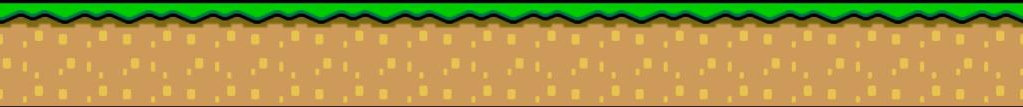
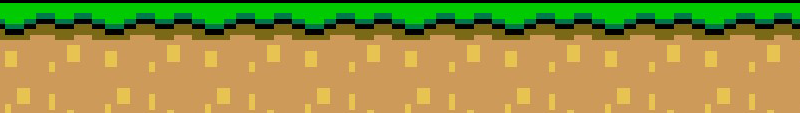
fixed bugs
and add more improvements

diff --git a/js/game.js b/js/game.js
@@ -3,9 +3,11 @@ const pipe = document.querySelector(".pipe");
 const ground1 = document.querySelector(".ground-1");
 const ground2 = document.querySelector(".ground-2");
 const clouds = document.querySelector(".clouds");
-const menu = document.querySelector(".hidden");
+const menu = document.querySelector("#menu");
 const btnJump = document.querySelector(".button-jump");
 const marioGameOver = document.querySelector(".mario-game-over");
+const bgGameBlack = document.querySelector(".bg-game-black");
+const gameOverMsg = document.querySelector("#game-over-msg");
 
 const jumpSound = document.querySelector("#jumpSound");
 const stageSound = document.querySelector("#stageSound");
@@ -38,7 +40,7 @@ const loop = setInterval(() => {
     .bottom.replace("px", "");
 
   const gameOver =
-    pipePosition <= 120 && pipePosition > 0 && marioPosition < 130;
+    pipePosition <= 120 && pipePosition > 0 && marioPosition < 210;
 
   if (gameOver) {
     btnJump.style.display = "none";
@@ -49,9 +51,9 @@ const loop = setInterval(() => {
     mario.style.animation = "none";
     mario.style.bottom = `${marioPosition}px`;
 
-    ground1.style.animation = "none";
-    ground2.style.animation = "none";
-
+    ground1.style.animation = "paused";
+    ground2.style.animation = "paused";
+    
     clouds.style.animation = "none";
     clouds.style.left = `${cloudsPosition}px`;
 
@@ -59,15 +61,20 @@ const loop = setInterval(() => {
     marioGameOver.style.bottom = `${marioPosition}px`;
     marioGameOver.style.display = "block";
 
+    gameOverMsg.classList.remove("hidden")
+
     setTimeout(() => {
       jumpSound.pause();
       jumpSound.src = "";
     }, 300);
 
     setTimeout(() => {
-      menu.style.display = "block";
-      marioGameOver.style.display = "none";
+      gameOverMsg.classList.add("hidden");
+      menu.classList.remove("hidden")
+      // marioGameOver.style.display = "none";
     }, 3000);
+
+    bgGameBlack.classList.remove("hidden");
 
     stageSound.pause();
     gameOverSound.play();

diff --git a/css/game-screen.css b/css/game-screen.css
@@ -6,7 +6,6 @@
   margin: 0px auto;
   position: relative;
   overflow: hidden;
-  background: linear-gradient(#54bde7, #e0f6ff);
 }
 
 .hidden {
@@ -15,15 +14,35 @@
 
 .button-jump {
   font-family: 'Press Start 2P', cursive;
-  border: 2px solid #000;
-  border-radius: 100%;
+  background-color: #6b4b8b;
+  border-radius: 48%;
   position: absolute;
   cursor: pointer;
-  width: 100px;
+  width: 105px;
   height: 100px;
   margin: 16px;
   text-align: center;
   z-index: 1;
+  box-shadow: 0px 8px 2px 1px #44334f;
+}
+
+.game-over {
+  font-family: 'Press Start 2P', cursive;
+  font-size: 48px;
+  width: 150px;
+  height: 50px;
+  margin: 0 auto;
+  position: absolute;
+  bottom: 360px;
+  right: 44%;
+  z-index: 1;
+  text-align: center;
+}
+
+.game-over-msg{
+  margin: 12px;
+  color: #dedede;
+  filter: drop-shadow(0px 3px 10px rgba(80, 80, 80, 0.9));
 }
 
 .menu {
@@ -31,27 +50,39 @@
   height: 50px;
   margin: 0 auto;
   position: absolute;
-  text-align: center;
   display: flex;
   flex-direction: column;
+  align-items: center;
   gap: 24px;
   bottom: 340px;
   right: 40%;
+  z-index: 1;
 }
 
 .button-game {
-  border: 2px solid #000;
-  border-radius: 16px;
   padding: 5px;
   cursor: pointer;
-  background-color: #a0a0a0;
   font-size: 22px;
-  font-family: mario;
+  font-family: 'Press Start 2P', cursive;
   text-decoration: none;
-  color: #090a0a;
-  box-shadow: 0px 15px 16px -4px #333;
+  color: #dedede;
+  filter: drop-shadow(0px 3px 10px rgba(80, 80, 192, 0.9));
 }
 
 .button-game:hover {
   font-size: 22.5px;
+}
+
+.mountains-bg {
+  z-index: -1;
+  width: 800px;
+  height: 610px;
+  position: absolute;
+}
+
+.bg-game-black {
+  opacity: 85%;
+  width: 800px;
+  height: 610px;
+  position: absolute;
 }

diff --git a/game.html b/game.html
@@ -22,14 +22,20 @@
 
   <body>
     <div class="game-screen">
-      <span class="hidden">
+
+      <span class="game-over hidden" id="game-over-msg">
+        <p class="game-over-msg">GAME</p>
+        <p class="game-over-msg">OVER</p>
+      </span>
+
+      <span class="hidden" id="menu">
         <div class="menu">
-          <a href="./index.html" class="button-game">home</a>
+          <a href="./index.html" class="button-game"> home</a>
           <a href="./game.html" class="button-game">restart</a>
         </div>
       </span>
 
-      <div class="button-jump">teste</div>
+      <div class="button-jump"></div>
 
       <img src="./images/pipe-game.png" alt="Pipe" class="pipe" />
 
@@ -45,7 +51,11 @@
 
       <img src="./images/ground.png" alt="Ground 2" class="ground-2" />
 
+      <img src="./images/mountains-bg.png" alt="Mountais" class="mountains-bg" />
+
       <img src="./images/clouds-game.png" alt="Clouds" class="clouds" />
+
+      <img src="./images/bg-black.png" alt="Background" class="bg-game-black hidden" />
     </div>
   </body>
 </html>

diff --git a/css/home.css b/css/home.css
@@ -13,16 +13,14 @@
 
 .logo {
   width: 500px;
-  -webkit-filter: drop-shadow(0px 15px 16px rgba(0, 0, 0, 0.9)); 
-  filter: drop-shadow(0px 15px 16px rgba(0, 0, 0, 0.9));
+  filter: drop-shadow(0px 5px 10px rgba(150, 150, 150, 0.9));
 }
 
 h2 {
   color:#dedede;
   font-family: 'Press Start 2P', cursive;
   margin-bottom: 22px;
-  -webkit-filter: drop-shadow(0px 15px 16px rgba(0, 0, 0, 0.9)); 
-  filter: drop-shadow(0px 15px 16px rgba(0, 0, 0, 0.9));
+  filter: drop-shadow(0px 3px 10px rgba(150, 150, 150, 0.9));
 }
 
 
@@ -34,8 +32,7 @@ h2 {
   font-family: 'Press Start 2P', cursive;
   color:#dedede;
   cursor: default;
-  -webkit-filter: drop-shadow(0px 15px 16px rgba(0, 0, 0, 0.9)); 
-  filter: drop-shadow(0px 15px 16px rgba(0, 0, 0, 0.9));
+  filter: drop-shadow(0px 3px 10px rgba(150, 150, 150, 0.9));
 }
 
 .main-menu span a {
@@ -65,7 +62,7 @@ h2 {
 
 .coin1, .coin2 {
   width: 12px;
-  cursor: pointer;
+  cursor: default;
 }
 
 .bg-image {

diff --git a/css/animation.css b/css/animation.css
@@ -3,20 +3,20 @@
 
 .mario {
   position: absolute;
-  bottom: 50px;
+  bottom: 130px;
   width: 150px;
 }
 
 .mario-game-over {
   position: absolute;
-  bottom: 50px;
+  bottom: 130px;
   width: 150px;
   display: none
 }
 
 .mario-game-over-2 {
   position: absolute;
-  bottom: 50px;
+  bottom: 130px;
   width: 150px;
 }
 
@@ -26,7 +26,7 @@
 
 .pipe {
   position: absolute;
-  bottom: 50px;
+  bottom: 130px;
   height: 80px;
   width: 80px;
   animation: pipe-animation 1.5s infinite linear;
@@ -34,8 +34,8 @@
 
 .ground-1 {
   position: absolute;
-  bottom: 0;
-  height: 50px;
+  bottom: 0px;
+  height: 130px;
   width: 800px;
   animation: ground-animation-1 1.3s infinite linear;
 }
@@ -43,7 +43,7 @@
 .ground-2 {
   position: absolute;
   bottom: 0px;  
-  height: 50px;
+  height: 130px;
   width: 800px;
   animation: ground-animation-2  1.3s infinite linear;
 }

diff --git a/css/keyframes.css b/css/keyframes.css
@@ -1,22 +1,22 @@
 @keyframes jump {
   0% {
-    bottom: 50px;
+    bottom: 130px;
   }
 
   40% {
-    bottom: 180px;
+    bottom: 260px;
   }
 
   50% {
-    bottom: 190px;
+    bottom: 270px;
   }
 
   60% {
-    bottom: 180px;
+    bottom: 260px;
   }
 
   100%{
-    bottom: 50px ;
+    bottom: 130px ;
   }
 }
 
